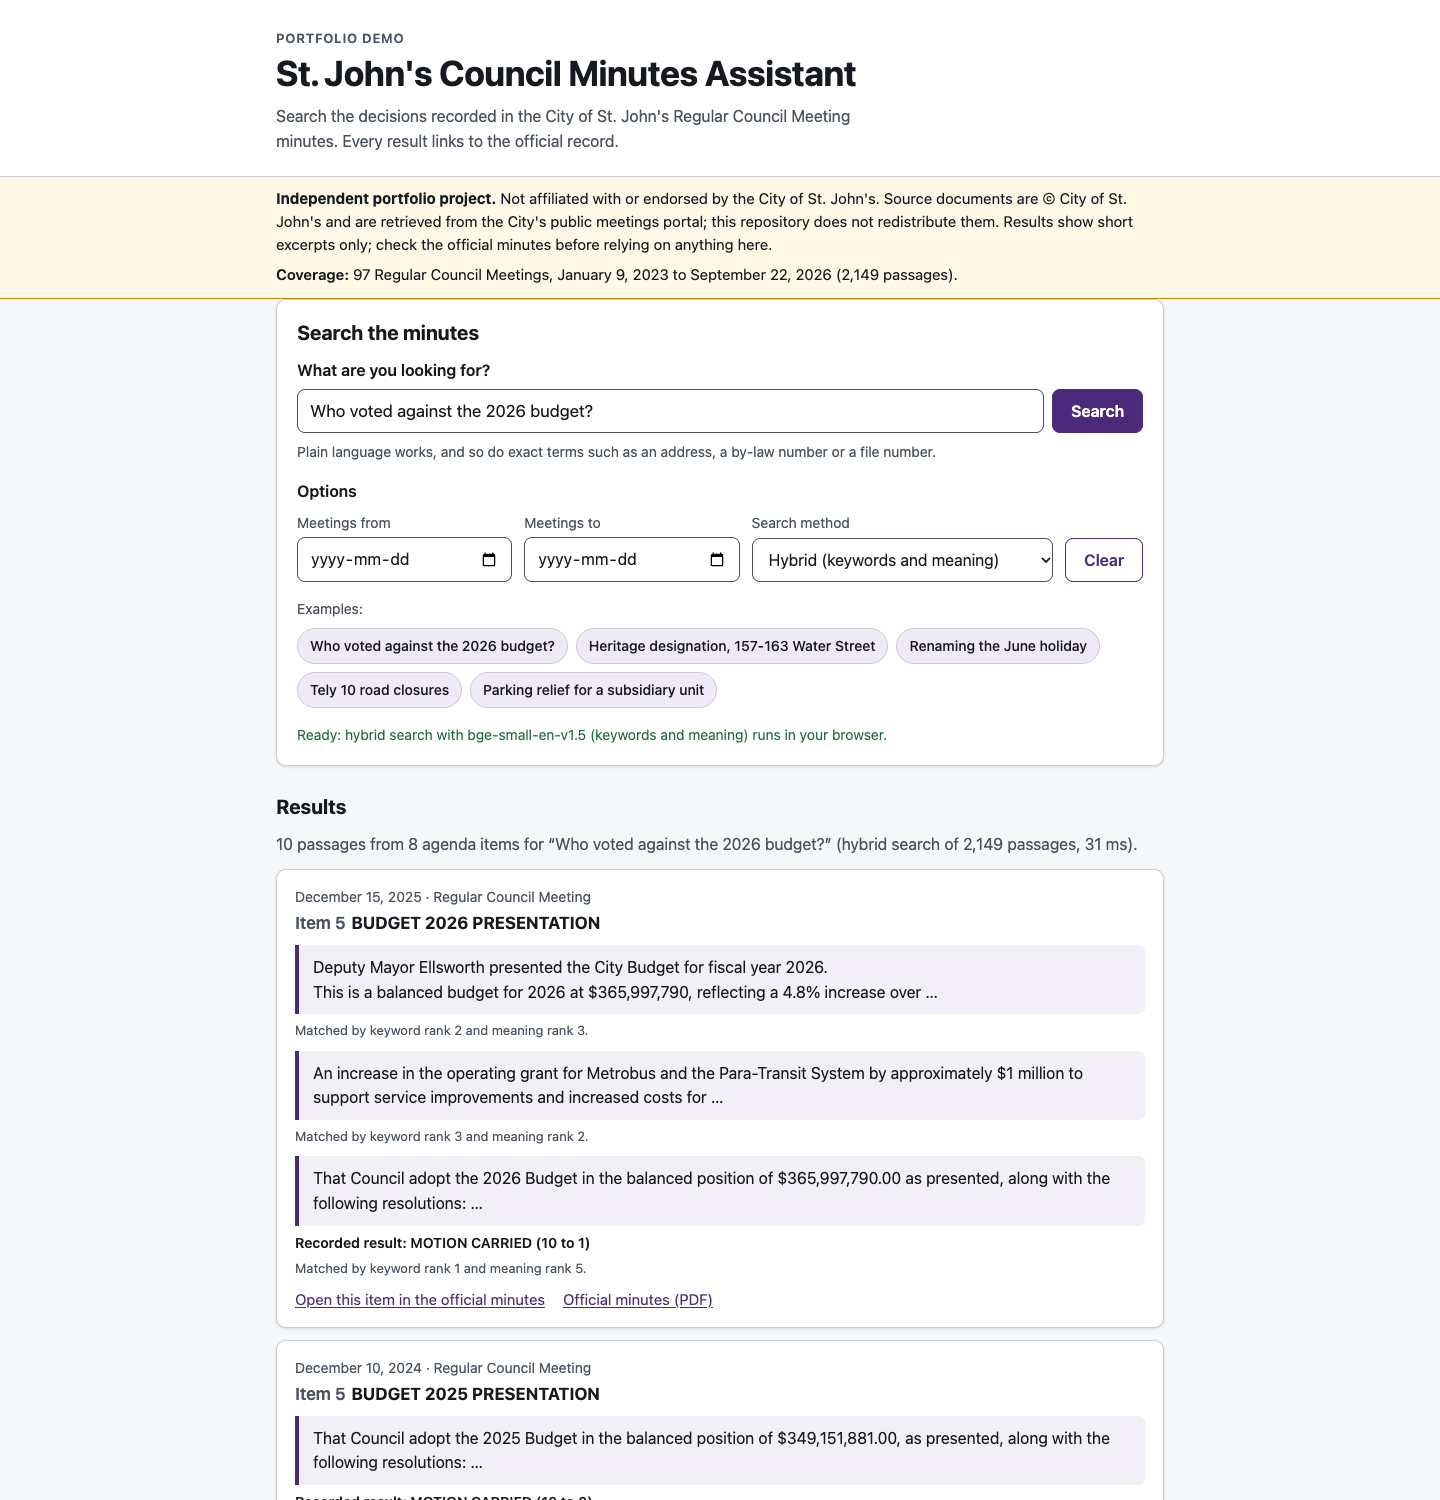
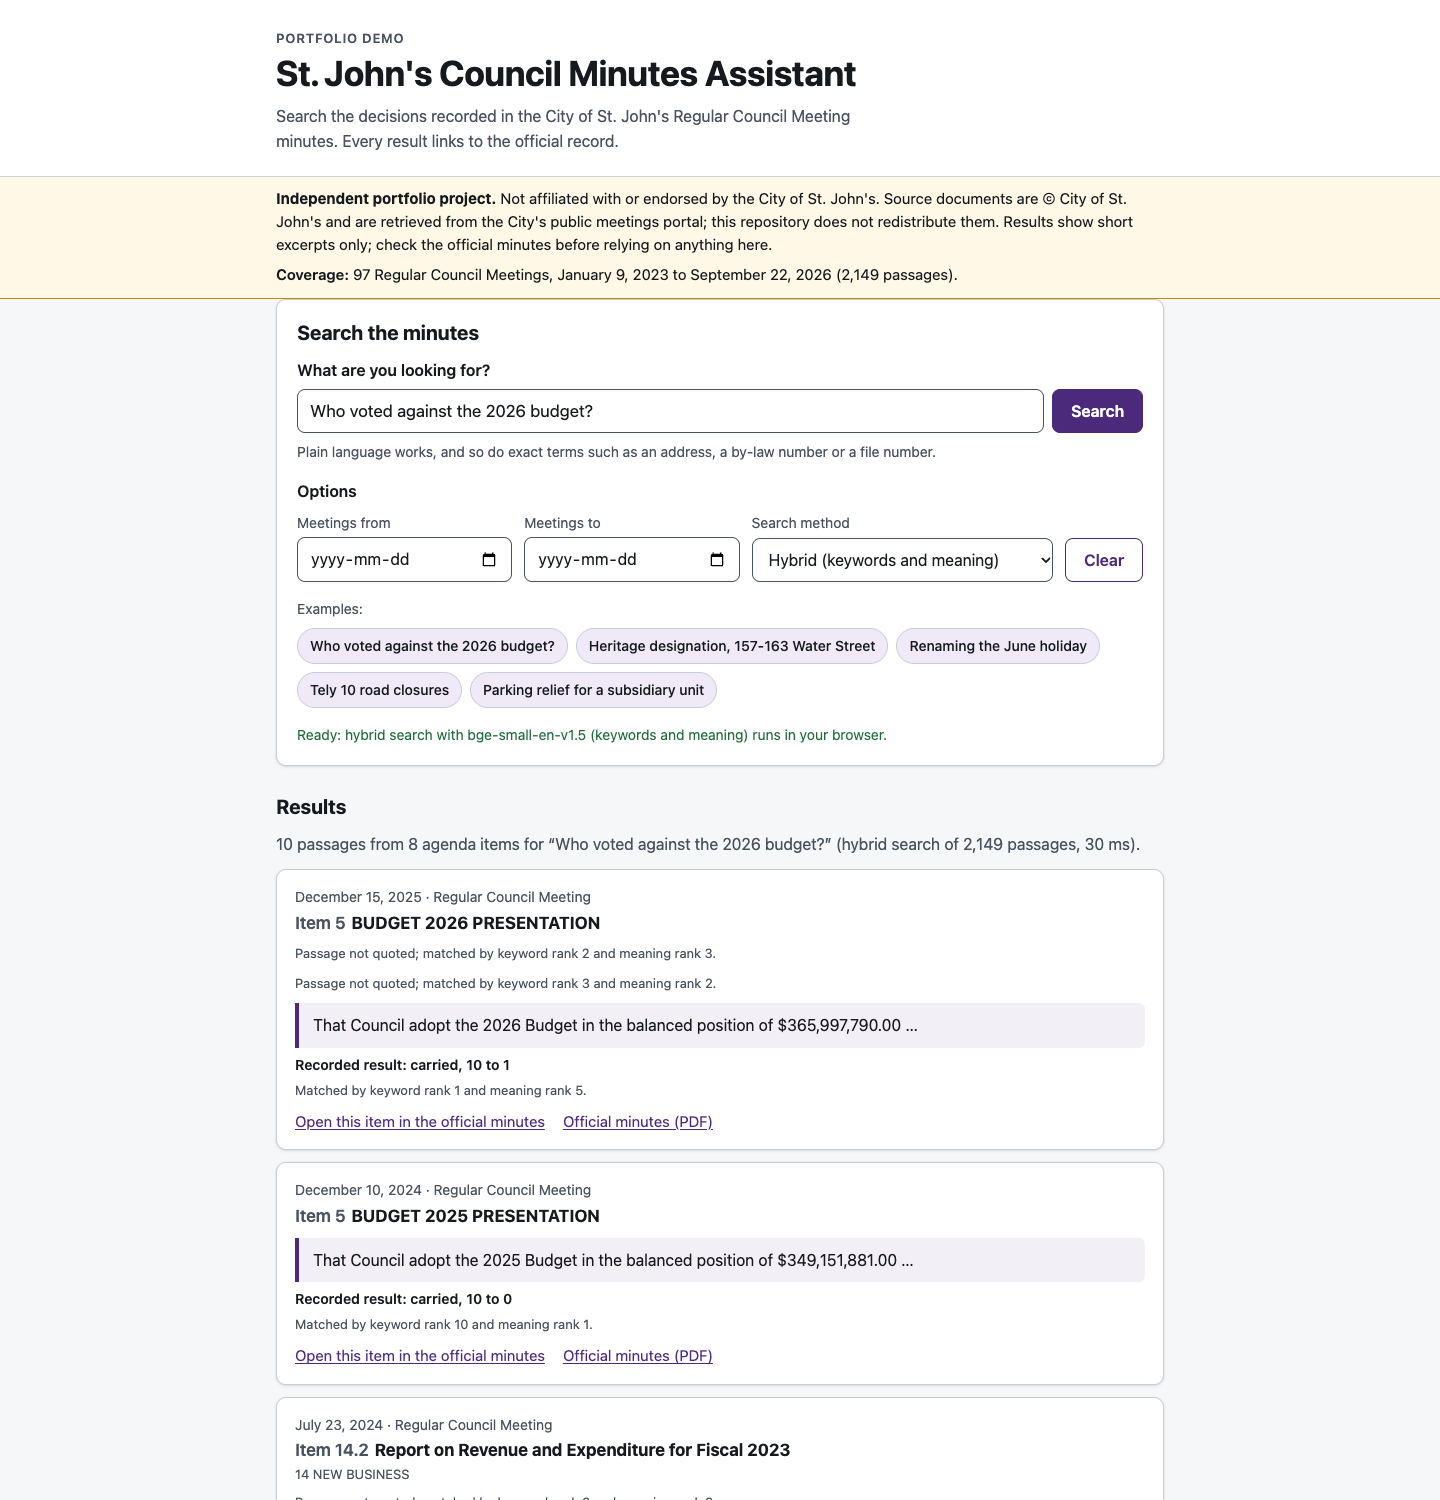
README, diagram and screenshots for the shorter excerpts
Updates the copyright section, PA-13, the demo description and the diagram's export
box to the 80-character limit (the diagram line is shorter than before and fits its
box with the authored fonts, Helvetica and Arial). Adds the published-text table to
RESULTS.md and refreshes the headless Chrome check: search 28 to 35 ms, keyword
search ready 53 ms after navigation, model ready after 4,298 ms on a first visit,
0 axe-core violations in desktop light, desktop dark and 390 px views.

Changed region(s): [[0.1875, 0.6133, 0.7812, 1.0], [0.75, 0.552, 0.7812, 0.5827]]

diff --git a/README.md b/README.md
@@ -9,7 +9,7 @@ to the official record, or an honest "not found in the minutes".
 **Live search demo:** https://mrw-soumik.github.io/stjohns-council-minutes-rag/ (runs entirely in
 your browser; nothing you type leaves your device)
 
-![Search demo: results for "Who voted against the 2026 budget?" grouped by agenda item, with excerpts and links to the official minutes](docs/screenshots/desktop.png)
+![Search demo: results for "Who voted against the 2026 budget?" grouped by agenda item, with motion excerpts, recorded results and links to the official minutes](docs/screenshots/desktop.png)
 
 > Independent portfolio project. Not affiliated with or endorsed by the City of St. John's.
 > Source documents are © City of St. John's and are retrieved from the City's public meetings
@@ -27,7 +27,7 @@ This is Project A of a three-part portfolio by Mostafa Rafiur Wasib. The
 | NFR-02 answers: citations that support the claim | at least 90% | **90.2%** cite the gold agenda item; 80.5% the exact gold passage (strict); 92.7% support a statement on read-through (82 citations) | Met at item level and on review; strict measure below |
 | NFR-02 answers: unanswerable questions declined | at least 80% | **100.0% (20 of 20)** | Met |
 | NFR-03 answer time, p95 (local model on an Apple M3 Pro) | under 10 s | **12.82 s** (k = 6); 10.96 s (k = 4) | Not met |
-| NFR-03 demo search time after the page loads | under 1 s | **31 to 42 ms** per search | Met |
+| NFR-03 demo search time after the page loads | under 1 s | **28 to 35 ms** per search | Met |
 | NFR-04 cost per answer | under CAD 0.05 | **$0** (local model) | Met |
 | NFR-05 accessibility (axe-core, WCAG 2.1 A and AA rules) | no violations | **0** in light, dark and 390 px views | Met |
 
@@ -69,7 +69,7 @@ to reproduce them are in [`eval/README.md`](eval/README.md).
    mocked responses and was never called for this project.
 6. **Browser demo (FR-05, NFR-03, NFR-05, NFR-07).** `council-rag export-demo` writes a
    public-safe index to `docs/data`: int8 vectors, BM25 term counts keyed by a hash (no readable
-   word list), meeting metadata and excerpts. transformers.js 4.3.0 (pinned) embeds the query in
+   word list), meeting metadata, item titles and short motion excerpts. transformers.js 4.3.0 (pinned) embeds the query in
    the browser with the same model (its 8-bit weights, which gave the same hit@5), and `docs/assets/search.js` ranks exactly like the Python
    reader of that index (checked in CI for all evaluation questions).
 
@@ -167,14 +167,14 @@ Twelve answers chosen before the run are shown in the demo exactly as generated
 | PA-03 | Share of citations that support their claim | Automatic: 90.2% of 82 citations point to the gold agenda item and 80.5% to the exact gold passage (strict lower bound); read-through: 92.7% support a statement in their answer (k = 6; target 90%) |
 | PA-04 | Share of unanswerable questions declined | 100.0% (20 of 20) declined (k = 6; target 80%) |
 | PA-05 | p95 end-to-end answer time | 12.82 s at k = 6 and 10.96 s at k = 4 on Apple M3 Pro, 18 GB (target under 10 s) |
-| PA-06 | Demo search time after page load | 31 to 42 ms per search once the model is ready (headless Chrome); in that run keyword search was ready 56 ms after navigation and the model (34 MB, first visit) after 5342 ms |
+| PA-06 | Demo search time after page load | 28 to 35 ms per search once the model is ready (headless Chrome); in that run keyword search was ready 53 ms after navigation and the model (34 MB, first visit) after 4298 ms |
 | PA-07 | Cost per answer | $0: the answer model runs locally (electricity not measured) |
 | PA-08 | Automated accessibility scan | axe-core 4.13.0, WCAG 2.0/2.1 A and AA rules: 0 violations (desktop light, desktop dark, 390 px) |
 | PA-09 | Logs contain no IP address or identifier | Pass: `tests/test_privacy.py` (usage log fields are whitelisted; server access log disabled) |
 | PA-10 | UI shows disclaimer, coverage dates, model name and independence notice | Pass: independence notice shown, disclaimer shown, coverage dates shown, search model name shown, answer model name shown (checked in headless Chrome) |
 | PA-11 | Every answer has a citation with meeting name, date, item and a valid official URL | Pass: 82 of 82 citations in 63 answers (k = 6) have meeting name, date, agenda item and an official minutes URL whose anchor exists on the page |
 | PA-12 | No retrieved passage outside the selected date range | Pass: 0 violations in all retrieval runs, the browser index, the API tests and the answer run (0 violations over 11 date-filtered questions) |
-| PA-13 | Every excerpt is at most 300 characters and a verbatim substring of its source | Pass: checked for all 2,149 published excerpts at export time (`council-rag export-demo` refuses otherwise) and in tests |
+| PA-13 | Every excerpt is at most 80 characters and a verbatim substring of its source | Pass: all 1,371 published excerpts (decisions only; longest 80 characters) checked at export time (`council-rag export-demo` refuses otherwise), again against the source passages by `scripts/published_text_share.py`, and in tests |
 | PA-14 | Ingestion re-run: no duplicates, writes a log, updates coverage | Pass: `tests/test_escribe.py::test_rerun_adds_new_minutes_without_duplicates_and_logs` |
 
 ## Requirements traceability
@@ -190,7 +190,7 @@ Twelve answers chosen before the run are shown in the demo exactly as generated
 | FR-07 Repeatable ingestion | `ingest/escribe.py`, `cli.py update` | PA-14 |
 | NFR-01 hit@5 at least 85% | `evaluation/retrieval_eval.py`, CI gate | 0.954, gated in CI on the committed index |
 | NFR-02 citations at least 90% supported; at least 80% declines | `evaluation/answer_eval.py` | 80.5% of citations hold gold evidence (lower bound); 100.0% of unanswerable questions declined |
-| NFR-03 p95 answer under 10 s; demo search under 1 s | `answer_eval.py`, `scripts/screenshots.mjs` | answers p95 12.82 s (k = 6) and 10.96 s (k = 4) on Apple M3 Pro; demo search 31 to 42 ms |
+| NFR-03 p95 answer under 10 s; demo search under 1 s | `answer_eval.py`, `scripts/screenshots.mjs` | answers p95 12.82 s (k = 6) and 10.96 s (k = 4) on Apple M3 Pro; demo search 28 to 35 ms |
 | NFR-04 cost under CAD 0.05 per answer | `pricing.py`, usage log | $0 with the local model; the Claude backend logs cost per call |
 | NFR-05 WCAG 2.1 AA | `docs/`, `scripts/screenshots.mjs` | PA-08: 0 axe-core violations; keyboard path checked |
 | NFR-06 Privacy | `answers.py` (usage log), `cli.py serve` | PA-09 |
@@ -253,10 +253,15 @@ Use it in the app with `COUNCIL_RAG_VECTOR_STORE=pgvector` and `COUNCIL_RAG_PG_D
 
 * City documents are © City of St. John's (all rights reserved). They are downloaded for local
   use into `data/`, which is gitignored; neither the PDFs nor the full text are committed.
-* The public demo shows only excerpts: each is a verbatim span of the minutes of at most 300
-  characters, linked to the official page. Together the 2,149 excerpts amount to about 26% of
-  the parsed minutes text, mostly the wording of motions. The demo index also holds int8
-  vectors and BM25 term counts keyed by a hash rather than readable words.
+* The public demo quotes decisions only: the opening words of each motion, verbatim, up to the
+  end of its first sentence and at most 80 characters, with the recorded result in plain words
+  ("carried, 9 to 0"). Discussion notes, attendance and routine items (adoption of the agenda
+  or minutes, payment vouchers, call to order, adjournment) are listed by title with a link to
+  the official minutes. The 1,371 excerpts come to 7.8% of the parsed minutes text, or 9.3%
+  with the recorded results; the item titles and section headings shown with every result add
+  7.3% and 1.7% ([measurement](eval/results/RESULTS.md#text-published-in-the-demo-index-pa-13),
+  `python scripts/published_text_share.py`). The demo index also holds int8 vectors and BM25
+  term counts keyed by a hash rather than readable words.
 * Precomputed demo answers are short model-written sentences with links to the official items.
 * No accounts, cookies or analytics. The demo processes searches in the browser. The API keeps
   only usage and cost per answer (no question text, IP address or identifiers), and the server
@@ -292,7 +297,7 @@ Use it in the app with `COUNCIL_RAG_VECTOR_STORE=pgvector` and `COUNCIL_RAG_PG_D
 src/council_rag/      ingest (downloader, HTML parser), chunking, retrieval, answers, API, CLI
 eval/                 questions.jsonl, qrels.json, results/ (JSON runs and RESULTS.md)
 docs/                 static demo (GitHub Pages), architecture.svg, screenshots
-scripts/              parity checks, browser checks, showcase and results generators
+scripts/              parity checks, browser checks, published-text share, showcase and results generators
 tests/                pytest suite with a synthetic minutes fixture (no City documents)
 ```
 

diff --git a/eval/results/RESULTS.md b/eval/results/RESULTS.md
@@ -101,11 +101,25 @@ Model `Xenova/bge-small-en-v1.5@ea104dacec62c0de699686887e3f920caeb4f3e3`; @hugg
 
 ## Browser demo checks (headless Chrome)
 
-- Search time after the model loads (embedding + ranking), five queries: 33, 42, 36, 31, 37 ms.
+- Search time after the model loads (embedding + ranking), five queries: 32, 30, 35, 29, 28 ms.
 - Browser (WASM) versus Node query embeddings, q8 model: min cosine 0.9987.
 - axe-core WCAG 2.1 A/AA violations: desktop light 0, desktop dark 0, mobile 0.
 - Keyboard: first Tab reaches `skip-link`; the skip link moves focus to `#main`.
 - Horizontal scrolling at 390 px: no.
+
+## Text published in the demo index (PA-13)
+
+Measured against the parsed minutes (1,332,934 characters) with `python scripts/published_text_share.py`.
+
+| Published | Count | Characters | Share of the minutes |
+|---|---|---|---|
+| Excerpts (verbatim, decisions only, at most 80 characters) | 1,371 | 103,707 | 7.8% |
+| Recorded outcomes ("carried, 9 to 0") | 1,366 | 20,855 | 1.6% |
+| Item titles (shown with every result) | 2,059 | 97,501 | 7.3% |
+| Section headings (shown with every result) | 793 | 22,676 | 1.7% |
+| Excerpts and outcomes together | | 124,562 | 9.3% |
+
+PA-13: 1,371 excerpts checked against their source passages; longest 80 characters; 0 not verbatim or too long.
 
 ## Answers: Qwen3.5-9B (MLX 4-bit) (k=4 passages)
 
